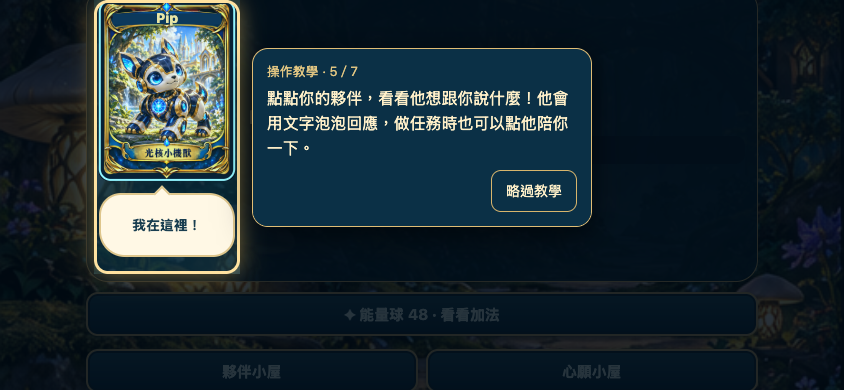
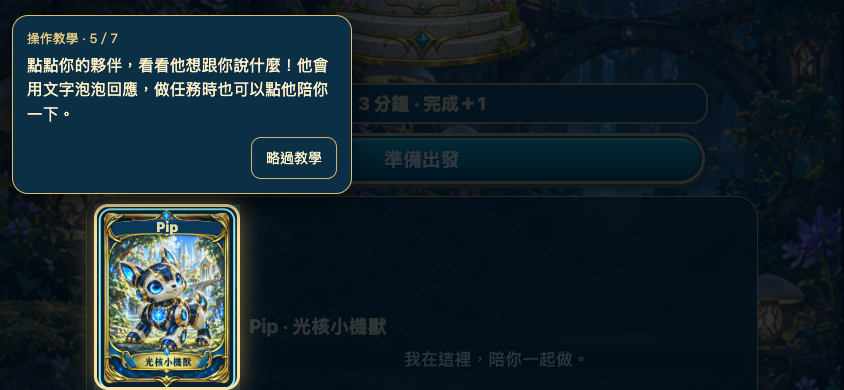
fix(ui): stabilize mobile guides and rebalance companion panel [actor:bot approval:user-request trigger:23042]

diff --git a/src/SpotlightGuide.tsx b/src/SpotlightGuide.tsx
@@ -9,7 +9,7 @@ export async function initializeGuide(fresh:boolean,force=false){
  if(force)await AsyncStorage.removeItem(MUSIC_HINT_KEY);
  if(force||!await AsyncStorage.getItem(GUIDE_KEY))await AsyncStorage.setItem(GUIDE_KEY,JSON.stringify({main:!fresh,companions:!fresh,wishes:!fresh,parent:!fresh}));
 }
-type Step={selector:string;text:string;delay?:number;action?:'mission'|'picker';info?:boolean};
+type Step={selector:string;text:string;delay?:number;action?:'mission'|'picker';info?:boolean;passThrough?:boolean};
 const companionStep:Step={selector:'[data-testid="guardian-companion"] [data-testid="companion-reaction"]',text:'點點你的夥伴，看看他想跟你說什麼！他會用文字泡泡回應，做任務時也可以點他陪你一下。',delay:1400};
 const main:Step[]=[
  {selector:'[aria-label="開始任務"]',text:'先點這裡，進入今天的任務。',action:'mission'},
@@ -28,9 +28,9 @@ const rooms:Record<string,Step[]>={
   {selector:'[aria-label^="試聽"]',text:'點這裡試聽 20 秒。試聽不等於選用，也不會開啟任務自動播放。'},
   {selector:'[role="radio"][aria-label^="選用"]',text:'喜歡這首就按「選用」。任務開始是否播放，由「任務開始時播放」開關決定；也能在計時器旁開關。'},
  ],
- companions:[{selector:'[data-testid="guardian-companion"] [aria-label^="摸摸"]',text:'點一下夥伴，他會發光、用文字泡泡陪你，不會花點數。'},{selector:'[aria-label="我的守護獸收藏"]',text:'從這裡看收藏；點已擁有的角色，就能選他今天陪你。',info:true}],
+ companions:[{selector:'[data-testid="guardian-companion"] [aria-label^="摸摸"]',text:'點一下夥伴，他會發光、用文字泡泡陪你，不會花點數。'},{selector:'[aria-label="我的守護獸收藏"]',text:'點這裡打開收藏；點已擁有的角色，就能選他今天陪你。',info:true,passThrough:true}],
  wishes:[{selector:'[data-testid="wish-guide-card"], [data-testid="wish-guide-empty"]',text:'這是心願卡與需要的點數。點數足夠時可以選取，最後確認才扣點；教學不會替你兌換。',info:true}],
- parent:[{selector:'[data-testid="parent-nav"]',text:'從這裡切換任務、獎勵、音樂與偏好。重看操作教學在「偏好與舊卡」，不必重置進度。',info:true}],
+ parent:[{selector:'[aria-label="任務與目標"]',text:'先點「任務與目標」看看設定。也能切換其他分類；重看操作教學在「偏好與舊卡」。',info:true,passThrough:true}],
 };
 export default function SpotlightGuide({allowed,room,replay,phase,pickerOpen,hasTask,onMission,onPicker,onMusicDone}:{allowed:boolean;room:string;replay:number;phase:string;pickerOpen:boolean;hasTask:boolean;onMission:()=>void;onPicker:()=>void;onMusicDone:()=>void}){
  const [store,setStore]=useState<GuideStore|null>(null),[mode,setMode]=useState<string|null>(null),[index,setIndex]=useState(0),[rect,setRect]=useState<DOMRect|null>(null),[size,setSize]=useState({w:0,h:0,top:0,left:0}),[notice,setNotice]=useState(''),[tipHeight,setTipHeight]=useState(180);
@@ -53,20 +53,30 @@ export default function SpotlightGuide({allowed,room,replay,phase,pickerOpen,has
  const active=Platform.OS==='web'&&allowed&&!!step;
  useEffect(()=>{
   if(!active||!step){setRect(null);return;}
-  let scrollTarget:HTMLElement|null=null;let lastScroll=0;
+  let anchor:HTMLElement|null=null,attempts=0,userMoved=false,frame=0,layoutWidth=window.innerWidth;
+  const viewport=()=>{const vv=window.visualViewport;return {w:vv?.width??window.innerWidth,h:vv?.height??window.innerHeight,top:vv?.offsetTop??0,left:vv?.offsetLeft??0};};
   const measure=()=>{
    const el=document.querySelector<HTMLElement>(step.selector);target.current=el;
-   const vv=window.visualViewport;const view={w:vv?.width??window.innerWidth,h:vv?.height??window.innerHeight,top:vv?.offsetTop??0,left:vv?.offsetLeft??0};setSize(view);
+   const view=viewport();setSize(old=>Object.keys(view).every(k=>Math.abs(old[k as keyof typeof old]-view[k as keyof typeof view])<.5)?old:view);
    if(tip.current){const measured=tip.current.offsetHeight;setTipHeight(old=>Math.abs(old-measured)>1?measured:old);}
-   if(!el){setRect(null);return;}
-   const before=el.getBoundingClientRect();const outside=before.bottom<=view.top+8||before.top>=view.top+view.h-8||(before.height<view.h*.4&&(before.top<view.top+8||before.bottom>view.top+view.h-8));
-   // Modal dismissal and late image layout can undo the initial scroll on mobile. Retry until visible.
-   if(scrollTarget!==el||(outside&&Date.now()-lastScroll>300)){lastScroll=Date.now();el.scrollIntoView({block:before.height>view.h*.4?'start':'center',inline:'nearest',behavior:'instant' as ScrollBehavior});scrollTarget=el;}
-   const r=el.getBoundingClientRect();setRect(r.width&&r.height?r:null);
+   const r=el?.getBoundingClientRect();
+   setRect(old=>!r||!r.width||!r.height?null:old&&['left','top','width','height'].every(k=>Math.abs((old[k as keyof DOMRect] as number)-(r[k as keyof DOMRect] as number))<.5)?old:r);
   };
-  const resized=()=>{scrollTarget=null;measure();};
-  measure();const timer=setInterval(measure,180);window.addEventListener('resize',resized);window.visualViewport?.addEventListener('resize',resized);window.visualViewport?.addEventListener('scroll',measure);document.addEventListener('scroll',measure,true);
-  return()=>{clearInterval(timer);window.removeEventListener('resize',resized);window.visualViewport?.removeEventListener('resize',resized);window.visualViewport?.removeEventListener('scroll',measure);document.removeEventListener('scroll',measure,true);};
+  // Measurement never scrolls. Only bounded initial alignment can move the page;
+  // mobile toolbar / visual viewport events must not create a scroll feedback loop.
+  const align=()=>{
+   const el=document.querySelector<HTMLElement>(step.selector);if(!el||userMoved)return;
+   const v=viewport(),r=el.getBoundingClientRect();
+   const outside=r.bottom<=v.top+12||r.top>=v.top+v.h-12;
+   if((anchor!==el||outside)&&attempts<4){attempts++;anchor=el;el.scrollIntoView({block:r.height>v.h*.4?'start':'center',inline:'nearest',behavior:'instant' as ScrollBehavior});}
+   measure();
+  };
+  const schedule=()=>{if(!frame)frame=requestAnimationFrame(()=>{frame=0;measure();});};
+  const manual=()=>{userMoved=true;};
+  const resized=()=>{if(Math.abs(window.innerWidth-layoutWidth)>40){layoutWidth=window.innerWidth;attempts=0;anchor=null;userMoved=false;align();}schedule();};
+  align();const retries=[120,450,1000,1600].map(ms=>setTimeout(align,ms));const timer=setInterval(measure,250);
+  window.addEventListener('resize',resized);window.visualViewport?.addEventListener('resize',schedule);window.visualViewport?.addEventListener('scroll',schedule);document.addEventListener('scroll',schedule,true);document.addEventListener('touchmove',manual,{passive:true,capture:true});document.addEventListener('wheel',manual,{passive:true,capture:true});
+  return()=>{retries.forEach(clearTimeout);clearInterval(timer);cancelAnimationFrame(frame);window.removeEventListener('resize',resized);window.visualViewport?.removeEventListener('resize',schedule);window.visualViewport?.removeEventListener('scroll',schedule);document.removeEventListener('scroll',schedule,true);document.removeEventListener('touchmove',manual,true);document.removeEventListener('wheel',manual,true);};
  },[active,step]);
  useEffect(()=>{
   if(!active||!step)return;
@@ -76,7 +86,7 @@ export default function SpotlightGuide({allowed,room,replay,phase,pickerOpen,has
    if(!permitted(event.target)){event.preventDefault();event.stopImmediatePropagation();return;}
    const button=(event.target as HTMLElement).closest('[role="button"],button');
    if(button?.getAttribute('aria-disabled')==='true'||button?.hasAttribute('disabled'))return;
-   if(step.info){event.preventDefault();event.stopImmediatePropagation();advance();return;}
+   if(step.info){if(!step.passThrough){event.preventDefault();event.stopImmediatePropagation();}else if(!button)return;advance();return;}
    if(step.action){event.preventDefault();event.stopImmediatePropagation();if(step.action==='mission')onMission();else onPicker();advance();return;}
    if(mode==='main'&&index===3)return;
    if(!button&&!(event.target as HTMLElement).closest('[role="radio"]'))return;
@@ -94,18 +104,18 @@ export default function SpotlightGuide({allowed,room,replay,phase,pickerOpen,has
   return()=>{document.removeEventListener('click',click,true);document.removeEventListener('keydown',key,true);};
  },[active,step,index,mode,store,onMission,onPicker]);
  if(Platform.OS!=='web'||!active)return null;
- const w=size.w||window.innerWidth,h=size.h||window.innerHeight,viewTop=size.top,viewBottom=viewTop+h;
- const r=rect?{left:Math.max(0,rect.left-5),right:Math.min(w,rect.right+5),top:Math.min(viewBottom,Math.max(viewTop,rect.top-5)),bottom:Math.max(viewTop,Math.min(viewBottom,rect.bottom+5))}:{left:0,right:0,top:0,bottom:0};
+ const w=size.w||window.innerWidth,h=size.h||window.innerHeight,viewTop=size.top,viewBottom=viewTop+h,viewLeft=size.left,viewRight=viewLeft+w,layoutW=window.innerWidth;
+ const r=rect?{left:Math.max(viewLeft,Math.min(viewRight,rect.left-5)),right:Math.max(viewLeft,Math.min(viewRight,rect.right+5)),top:Math.min(viewBottom,Math.max(viewTop,rect.top-5)),bottom:Math.max(viewTop,Math.min(viewBottom,rect.bottom+5))}:{left:0,right:0,top:0,bottom:0};
  const tipWidth=Math.min(340,w-24),below=viewBottom-r.bottom>=tipHeight+20;
- const side=rect&&!below&&r.top-viewTop<tipHeight+20?(w-r.right>=tipWidth+24?'right':r.left>=tipWidth+24?'left':null):null;
- const tipLeft=side==='right'?r.right+12:side==='left'?r.left-tipWidth-12:Math.max(12,Math.min(w-tipWidth-12,rect?(rect.left+rect.right-tipWidth)/2:(w-tipWidth)/2));
+ const side=rect&&!below&&r.top-viewTop<tipHeight+20?(viewRight-r.right>=tipWidth+24?'right':r.left-viewLeft>=tipWidth+24?'left':null):null;
+ const tipLeft=side==='right'?r.right+12:side==='left'?r.left-tipWidth-12:Math.max(viewLeft+12,Math.min(viewRight-tipWidth-12,rect?(rect.left+rect.right-tipWidth)/2:viewLeft+(w-tipWidth)/2));
  const desiredTop=side?(r.top+r.bottom-tipHeight)/2:rect?(below?r.bottom+10:r.top-tipHeight-10):viewTop+h/2-90;
  const tipTop=Math.max(viewTop+8,Math.min(viewBottom-tipHeight-8,desiredTop));
  const shade:React.CSSProperties={position:'fixed',background:'rgba(0,10,20,.82)',pointerEvents:'auto',touchAction:'pan-y'};
  const buttonStyle:React.CSSProperties={border:'1px solid #d8b56c',borderRadius:10,background:'#125368',color:'#fff0c9',padding:'10px 14px',fontSize:14,cursor:'pointer',minHeight:42};
  return createPortal(<div data-testid="spotlight-guide" style={{position:'fixed',inset:0,zIndex:2147483000,pointerEvents:'none',fontFamily:'system-ui,sans-serif'}}>
-  <div style={{...shade,left:0,top:0,width:w,height:r.top}}/><div style={{...shade,left:0,top:r.bottom,width:w,height:Math.max(0,window.innerHeight-r.bottom)}}/>
-  <div style={{...shade,left:0,top:r.top,width:r.left,height:r.bottom-r.top}}/><div style={{...shade,left:r.right,top:r.top,width:w-r.right,height:r.bottom-r.top}}/>
+  <div style={{...shade,left:0,top:0,width:layoutW,height:r.top}}/><div style={{...shade,left:0,top:r.bottom,width:layoutW,height:Math.max(0,window.innerHeight-r.bottom)}}/>
+  <div style={{...shade,left:0,top:r.top,width:r.left,height:r.bottom-r.top}}/><div style={{...shade,left:r.right,top:r.top,width:Math.max(0,layoutW-r.right),height:r.bottom-r.top}}/>
   {rect?<div data-testid="spotlight-hole" style={{position:'fixed',left:r.left,top:r.top,width:r.right-r.left,height:r.bottom-r.top,border:'3px solid #ffe2a0',borderRadius:14,boxSizing:'border-box',boxShadow:'0 0 22px #f7c55977'}}/>:null}
   <div ref={tip} tabIndex={-1} role="dialog" aria-label="操作教學" aria-live="polite" data-testid="spotlight-tip" style={{position:'fixed',pointerEvents:'auto',left:tipLeft,top:tipTop,width:tipWidth,maxHeight:Math.max(80,viewBottom-tipTop-8),overflowY:'auto',boxSizing:'border-box',background:'#0b3046',color:'#fff0c9',border:'1px solid #e0bd75',borderRadius:16,padding:14,boxShadow:'0 8px 30px #0008'}}>
    <div style={{fontSize:13,color:'#e2c682'}}>操作教學 · {index+1}／{steps.length}</div>

diff --git a/src/LightApp.tsx b/src/LightApp.tsx
@@ -289,7 +289,7 @@ export default function LightApp() {
       rewardProgress: progress % 3, dailyRewardDay: allDone ? dateKey : s.dailyRewardDay,
       draws: [...(s.draws ?? []), ...(triple || allDone ? [{ id: String(at.getTime()), reason }] : [])] };
   }
-  const companionScene = (<View testID={focusActive?"focus-companion-panel":"guardian-companion"} style={[styles.companionRow,focusActive&&styles.focusCompanionPanel]}>{companion||starterId?<CompanionReaction key={`${companion?.id??starterId}:${state.phase}:${state.help}`} character={companion?companion.beastId:starterId!} mood={state.help?'rest':state.phase==='done'||state.phase==='finishing'?'done':state.phase==='active'?'focus':'ready'} name={companionName} reduced={reduceMotion}>{companion?<Image source={companion.image} accessibilityLabel="今日夥伴陪你做任務" style={[styles.companionThumb,focusActive&&{width:102,height:144}]} resizeMode="contain" />:starterId?<StarterCompanionArt id={starterId} width={focusActive?102:136}/>:null}</CompanionReaction>:null}<View style={{flex: 1, gap:focusActive?5:8}}><Text style={[styles.guardianName,focusActive&&{fontSize:17}]}>{companionName}</Text><Text style={[styles.body,focusActive&&{fontSize:15,lineHeight:23}]}>{state.help ? '我陪你休息，準備好再一起走。' : state.phase === 'done' ? '我們一起完成了！' : '我在這裡，陪你一起做。'}</Text>{state.phase === 'active' && selectedCard && !state.help ? <Image source={selectedCard.imageSource} accessibilityLabel={selectedCard.name} style={{width:focusActive?46:80,height:focusActive?64:112,alignSelf:'center'}} resizeMode="contain" /> : null}</View></View>);
+  const companionScene = (<View testID={focusActive?"focus-companion-panel":"guardian-companion"} style={[styles.companionRow,focusActive&&styles.focusCompanionPanel]}>{companion||starterId?<CompanionReaction alignTop={focusActive} key={`${companion?.id??starterId}:${state.phase}:${state.help}`} character={companion?companion.beastId:starterId!} mood={state.help?'rest':state.phase==='done'||state.phase==='finishing'?'done':state.phase==='active'?'focus':'ready'} name={companionName} reduced={reduceMotion}>{companion?<Image source={companion.image} accessibilityLabel="今日夥伴陪你做任務" style={[styles.companionThumb,focusActive&&{width:102,height:144}]} resizeMode="contain" />:starterId?<StarterCompanionArt id={starterId} width={focusActive?102:136}/>:null}</CompanionReaction>:null}<View testID="companion-details" style={{flex:1,minWidth:0,alignSelf:focusActive?'flex-start':undefined,gap:focusActive?6:8}}><Text style={[styles.guardianName,focusActive&&{fontSize:17}]}>{companionName}</Text><Text style={[styles.body,focusActive&&{fontSize:15,lineHeight:23}]}>{state.help ? '我陪你休息，準備好再一起走。' : state.phase === 'done' ? '我們一起完成了！' : '我在這裡，陪你一起做。'}</Text>{state.phase === 'active' && selectedCard && !state.help ? <Image testID="companion-time-card" source={selectedCard.imageSource} accessibilityLabel={selectedCard.name} style={{width:focusActive?'100%':80,maxWidth:focusActive?112:80,height:focusActive?156:112,alignSelf:'center'}} resizeMode="contain" /> : null}</View></View>);
   async function chooseTask(nextTitle: string, category: string) {
     if (!nextTitle.trim() || nextTitle.trim().length > 80 || !current.current || !['ready', 'done'].includes(current.current.phase)) return;
     const saved = await change(s => !['ready', 'done'].includes(s.phase) ? s : ({ ...s, title: nextTitle.trim(), taskCategory: category, phase: 'ready', deadline: null, remaining: s.minutes * 60, help: false }));
@@ -567,7 +567,7 @@ const styles = StyleSheet.create({
   taskTitleText:{fontSize:24,lineHeight:32,fontWeight:'800',color:'#fff0cf',textAlign:'center'},
   taskTitleHint:{fontSize:12,lineHeight:18,color:'#c2d9dd',textAlign:'center'},
   focusMissionName:{fontSize:32,lineHeight:42,fontWeight:'800'},
-  focusCompanionPanel:{padding:9,gap:10},
+  focusCompanionPanel:{padding:10,gap:12,alignItems:'flex-start'},
   focusLocked:{backgroundColor:'#46565f',borderColor:'#829399'},
   worldName: {fontSize: 28, fontWeight: '900', color: '#fff1b9', letterSpacing: 3},
   smallLink: { minHeight: 44, alignSelf: 'center', paddingHorizontal: 18, justifyContent: 'center', borderRadius: 18, backgroundColor: 'rgba(8,31,49,.88)' },

diff --git a/src/ParentPinGate.tsx b/src/ParentPinGate.tsx
@@ -12,7 +12,7 @@ export function ParentPinGate({visible,onConfirm,onCancel,change=false}:{visible
  else throw Error(mode==='recovery'?'復原碼不正確。':'家長密碼不正確。');
  }catch(e){setNotice(e instanceof Error?e.message:'操作失敗，請再試一次。');}finally{lock.current=false;setBusy(false);}};
  const button=(label:string,fn:()=>void)=><Pressable accessibilityRole="button" accessibilityLabel={label} disabled={busy} onPress={fn} style={{padding:15,backgroundColor:'#086b80',borderRadius:14,marginTop:12}}><Text style={{color:'#fff',textAlign:'center',fontSize:18}}>{label}</Text></Pressable>;
- const input=(label:string,v:string,fn:(v:string)=>void)=><TextInput accessibilityLabel={label} placeholder={label} placeholderTextColor="#9db6bd" secureTextEntry autoComplete="off" value={v} onChangeText={fn} keyboardType={mode==='recovery'?'default':'number-pad'} maxLength={mode==='recovery'?32:6} style={{color:'#fff',borderColor:'#c3a65c',borderWidth:1,padding:14,borderRadius:12,marginTop:12}}/>;
+ const input=(label:string,v:string,fn:(v:string)=>void)=><TextInput accessibilityLabel={label} placeholder={label} placeholderTextColor="#9db6bd" secureTextEntry autoComplete="off" value={v} onChangeText={fn} keyboardType={mode==='recovery'?'default':'number-pad'} maxLength={mode==='recovery'?32:6} style={{fontSize:18,color:'#fff',borderColor:'#c3a65c',borderWidth:1,padding:14,borderRadius:12,marginTop:12}}/>;
  return <Modal visible={visible} transparent onRequestClose={()=>!busy&&onCancel()}><View style={{flex:1,backgroundColor:'rgba(0,0,0,.8)',justifyContent:'center',padding:20}}><ScrollView keyboardShouldPersistTaps="handled" contentContainerStyle={{flexGrow:1,justifyContent:'center',alignItems:'center'}}><View testID="parent-pin-gate" style={{width:'100%',maxWidth:440,padding:24,backgroundColor:'#082b3d',borderRadius:20}}><Text style={{color:'#fff0b3',fontSize:24,fontWeight:'bold'}}>{mode==='setup'?'設定家長密碼':mode==='keep'?'請保管家長復原碼':mode==='recovery'?'使用復原碼':'家長小屋解鎖'}</Text><Text style={{color:'#d5e5e9',marginTop:12}}>這台裝置專用，與試玩通關密碼不同。請由家長操作，不要告訴孩子。</Text>
  {mode==='verify'||mode==='setup'||mode==='recovery'?input(mode==='recovery'?'家長復原碼':'6 位數家長密碼',value,setValue):null}
  {mode==='setup'?input('再次輸入家長密碼',repeat,setRepeat):null}

diff --git a/src/CompanionReaction.tsx b/src/CompanionReaction.tsx
@@ -3,7 +3,7 @@ import React,{useEffect,useRef,useState} from 'react';
 import {Animated,Pressable,StyleSheet,Text,View} from 'react-native';
 
 /** Local-only feedback: never writes game progress or touches the task clock. */
-export default function CompanionReaction({name,character,mood,reduced,children,onActivate,selected,disabled=false}:{name:string;character:string;mood:CompanionMood;reduced:boolean;children:React.ReactNode;onActivate?:()=>void;selected?:boolean;disabled?:boolean}){
+export default function CompanionReaction({name,character,mood,reduced,children,onActivate,selected,disabled=false,alignTop=false}:{name:string;character:string;mood:CompanionMood;reduced:boolean;children:React.ReactNode;onActivate?:()=>void;selected?:boolean;disabled?:boolean;alignTop?:boolean}){
  const [reply,setReply]=useState('');
  const active=useRef(false),next=useRef(0);
  const timeout=useRef<ReturnType<typeof setTimeout>|null>(null);
@@ -22,7 +22,7 @@ export default function CompanionReaction({name,character,mood,reduced,children,
   ]).start();
   timeout.current=setTimeout(()=>{setReply('');active.current=false;timeout.current=null;},2000);
  };
- return <View testID="companion-reaction" style={s.root}>
+ return <View testID="companion-reaction" style={[s.root,alignTop&&{alignSelf:'flex-start'}]}>
   <Pressable accessibilityRole="button" accessibilityLabel={onActivate?`今天陪我：${name}`:`摸摸${name}`} accessibilityState={{selected,disabled}} disabled={disabled} accessibilityHint="夥伴會用一句話回應你" onPress={greet}>
    <Animated.View testID="companion-reaction-art" style={{transform:[{translateY:bounce.interpolate({inputRange:[0,1],outputRange:[0,-4]})},{scale:bounce.interpolate({inputRange:[0,1],outputRange:[1,1.035]})}]}}>
     {children}
